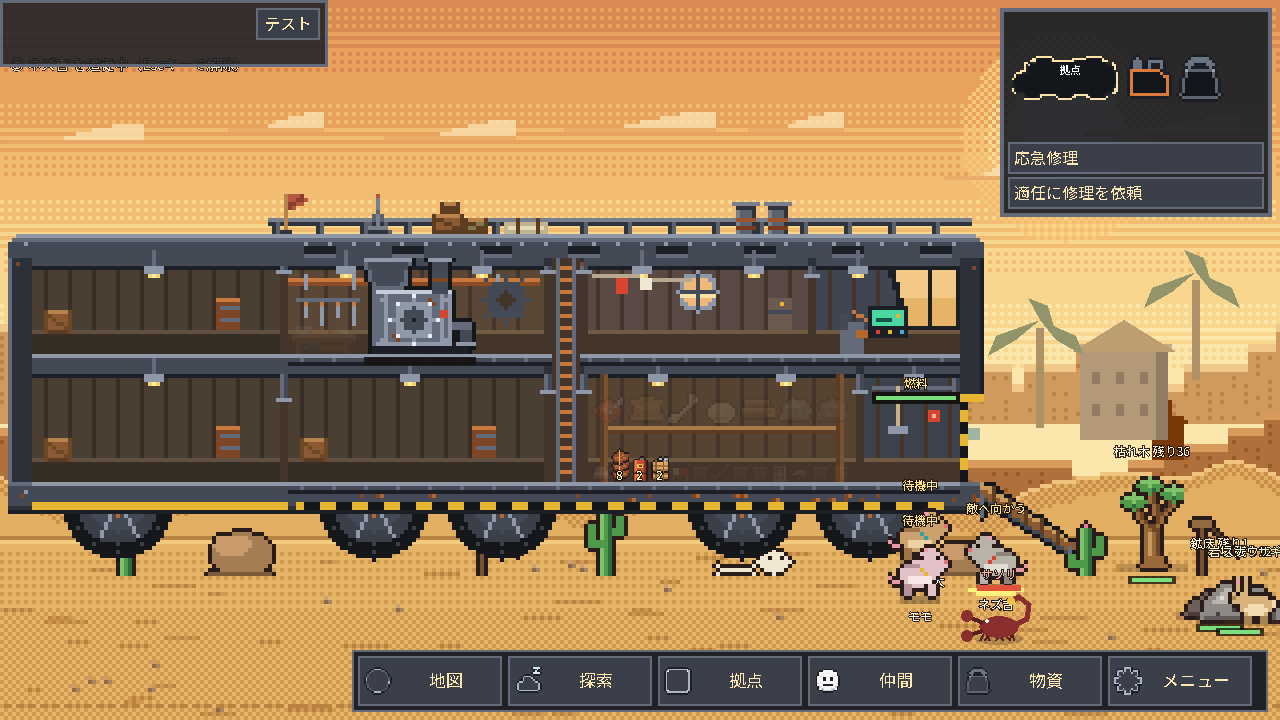
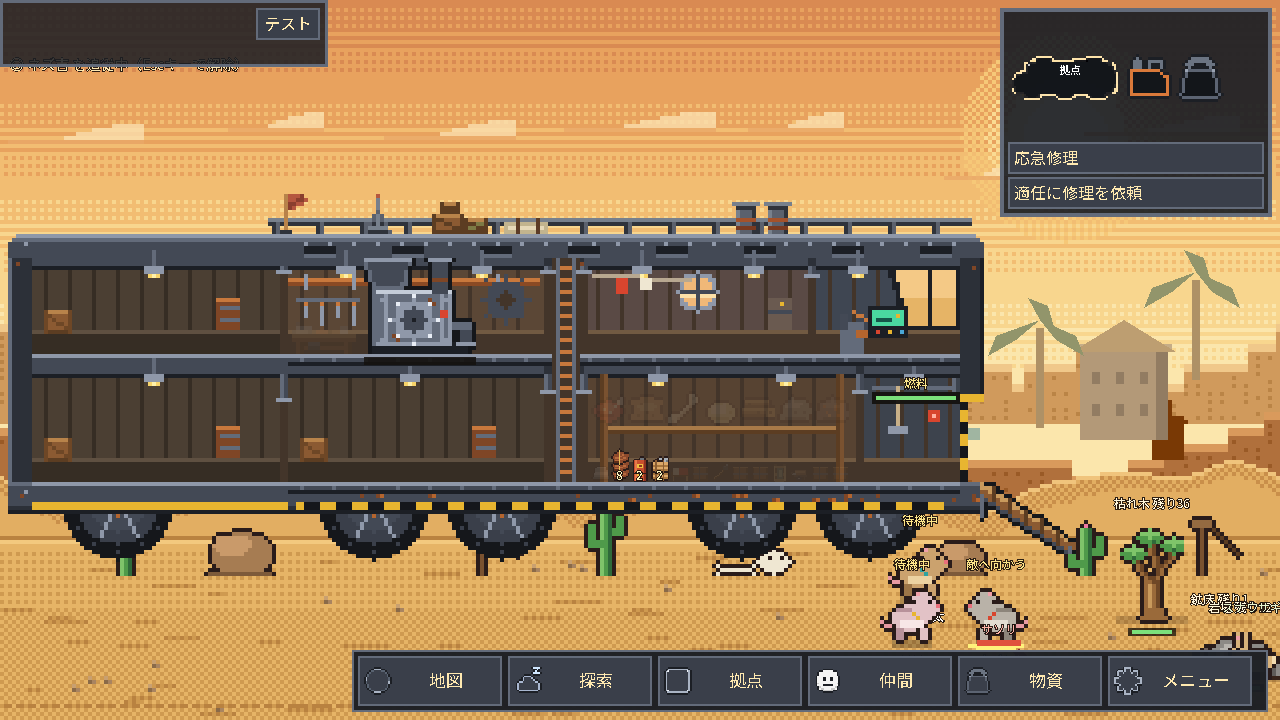
Stabilize two-lane depth band placement

Changed region(s): [[0.875, 0.6111, 1.0, 0.9472], [0.6875, 0.6722, 0.8125, 0.9167]]

diff --git a/docs/2レーン連続奥行き帯_通常屋外展開_検証記録_2026-10-18.md b/docs/2レーン連続奥行き帯_通常屋外展開_検証記録_2026-10-18.md
@@ -50,18 +50,25 @@ Windows Godot 4.7.2、隔離 APPDATA の既定マップ実行で
 `docs/two-lane-world-rollout-evidence-2026-10-18/`
 
 - `one-line-baseline.png`: the same small outdoor arrangement with all crew and
-  resource feet on Y=625.
-- `two-lane-normal-map.png`: the comparable arrangement split between Y=570 and
-  Y=625. The ordinary y-sort, feet shadows, and selected-crew marker remain visible.
+  resource feet on Y=680.
+- `two-lane-normal-map.png`: the comparable arrangement split between Y=625 and
+  Y=680. The ordinary y-sort, feet shadows, and selected-crew marker remain visible.
 - `live-depth-gather.png`, `live-depth-combat-approach.png`, and
   `live-depth-return.png`: normal Main/AI gather, melee approach, and individual
   return captures from the default depth-strip map.
 
-Continuous positions already inside Y=570..625 are retained on save/load. Only
+Continuous positions already inside Y=625..680 are retained on save/load. Only
 older or newly-created exterior resource/fauna/enemy records outside that band are
 clamped into it; static spawn and quarry anchors remain the two documented values.
 Crew positions are preserved exactly so a worker partway through the existing ramp
 return cannot be moved by a save operation.
+
+Final coordinate correction: the initial 570/625 placement changed the normal-map
+fixed-FPS first-cycle timing enough to exhaust the iron path before the storage-box
+build. The final prototype therefore keeps the same two lanes and 55 px shallow
+continuous band, translated to **Y=625 (back) / Y=680 (front)**, which preserves
+the existing exterior rhythm without changing resource amounts, rewards, routes, or
+lane count. The committed PNG evidence above was regenerated with these final values.
 
 Final isolated-APPDATA verification after the rollout implementation: Godot import,
 `test_two_lane_live_integration`, `test_world_flow`, `test_world_boundaries`,

diff --git a/CLAUDE.md b/CLAUDE.md
@@ -1138,6 +1138,19 @@ Workspace: `C:\Users\user\Documents\Codex\2026-10-18\task-3\desert_rats`; branch
 `0c92c7f59fbd5d00c4760e7419bcde2fbcfb6939`. The original PC checkout, `main`, existing saves,
 and stash `09e6de75e16a7e695b1c47d88650189dadf5f979` remain untouched.
 
+### 2026-10-18 Final two-lane depth-band coordinate correction (isolated worktree)
+
+The normal-map depth strip remains exactly two continuous front/back lanes, 55 px
+wide, with movement at every X and no crossing coordinate. Its final anchors are
+world Y=625 (back) and Y=680 (front). The first 570/625 placement changed the
+fixed-FPS first-cycle production rhythm enough to starve the storage-box build of
+iron, although it did not change resource amounts. Translating the same-width band
+to the legacy outdoor neighbourhood restores that flow without changing the map,
+routes, rewards, resource counts, or the lane count. The fixed-FPS `first_cycle_flow`
+and `two_lane_live_integration` passes were repeated after this correction; the
+comparison and live-render PNG evidence was regenerated with the Intel Iris Xe
+Compatibility renderer. Full core validation follows from this isolated branch.
+
 Notion was rechecked through `docs/Notion参照索引.md`. World 1's autonomous gather/haul/return is
 adopted; the delivery-loop page was still a planning proposal (last edited 2026-10-13), with reward
 details undecided. The current user direction therefore governs this implementation.
